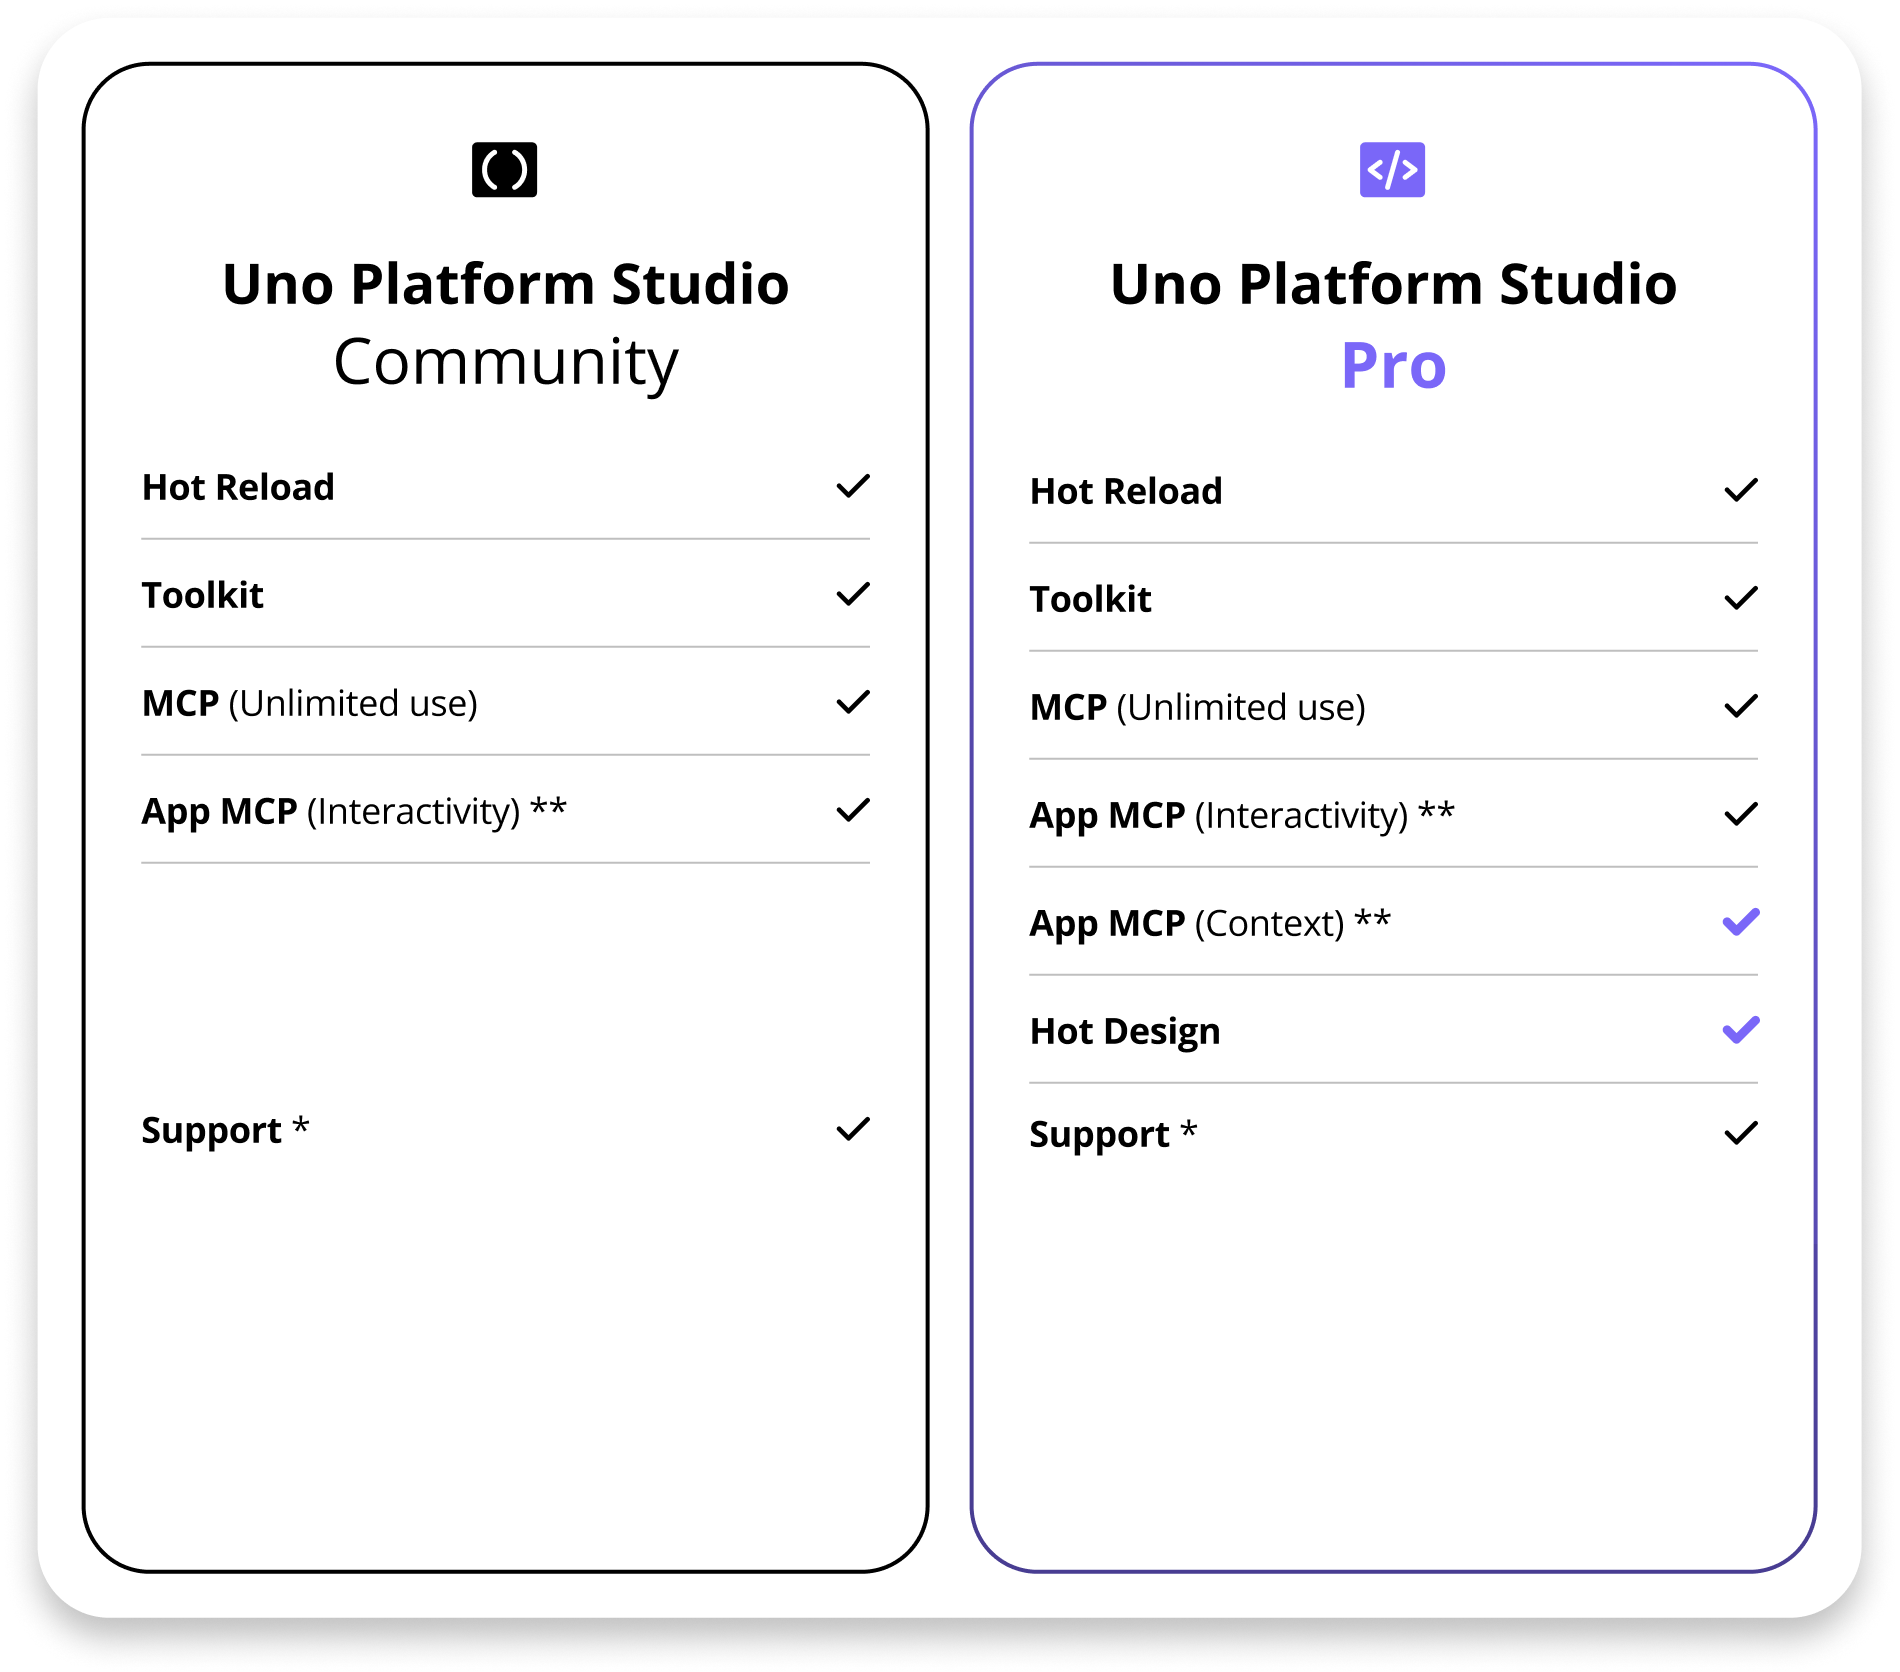
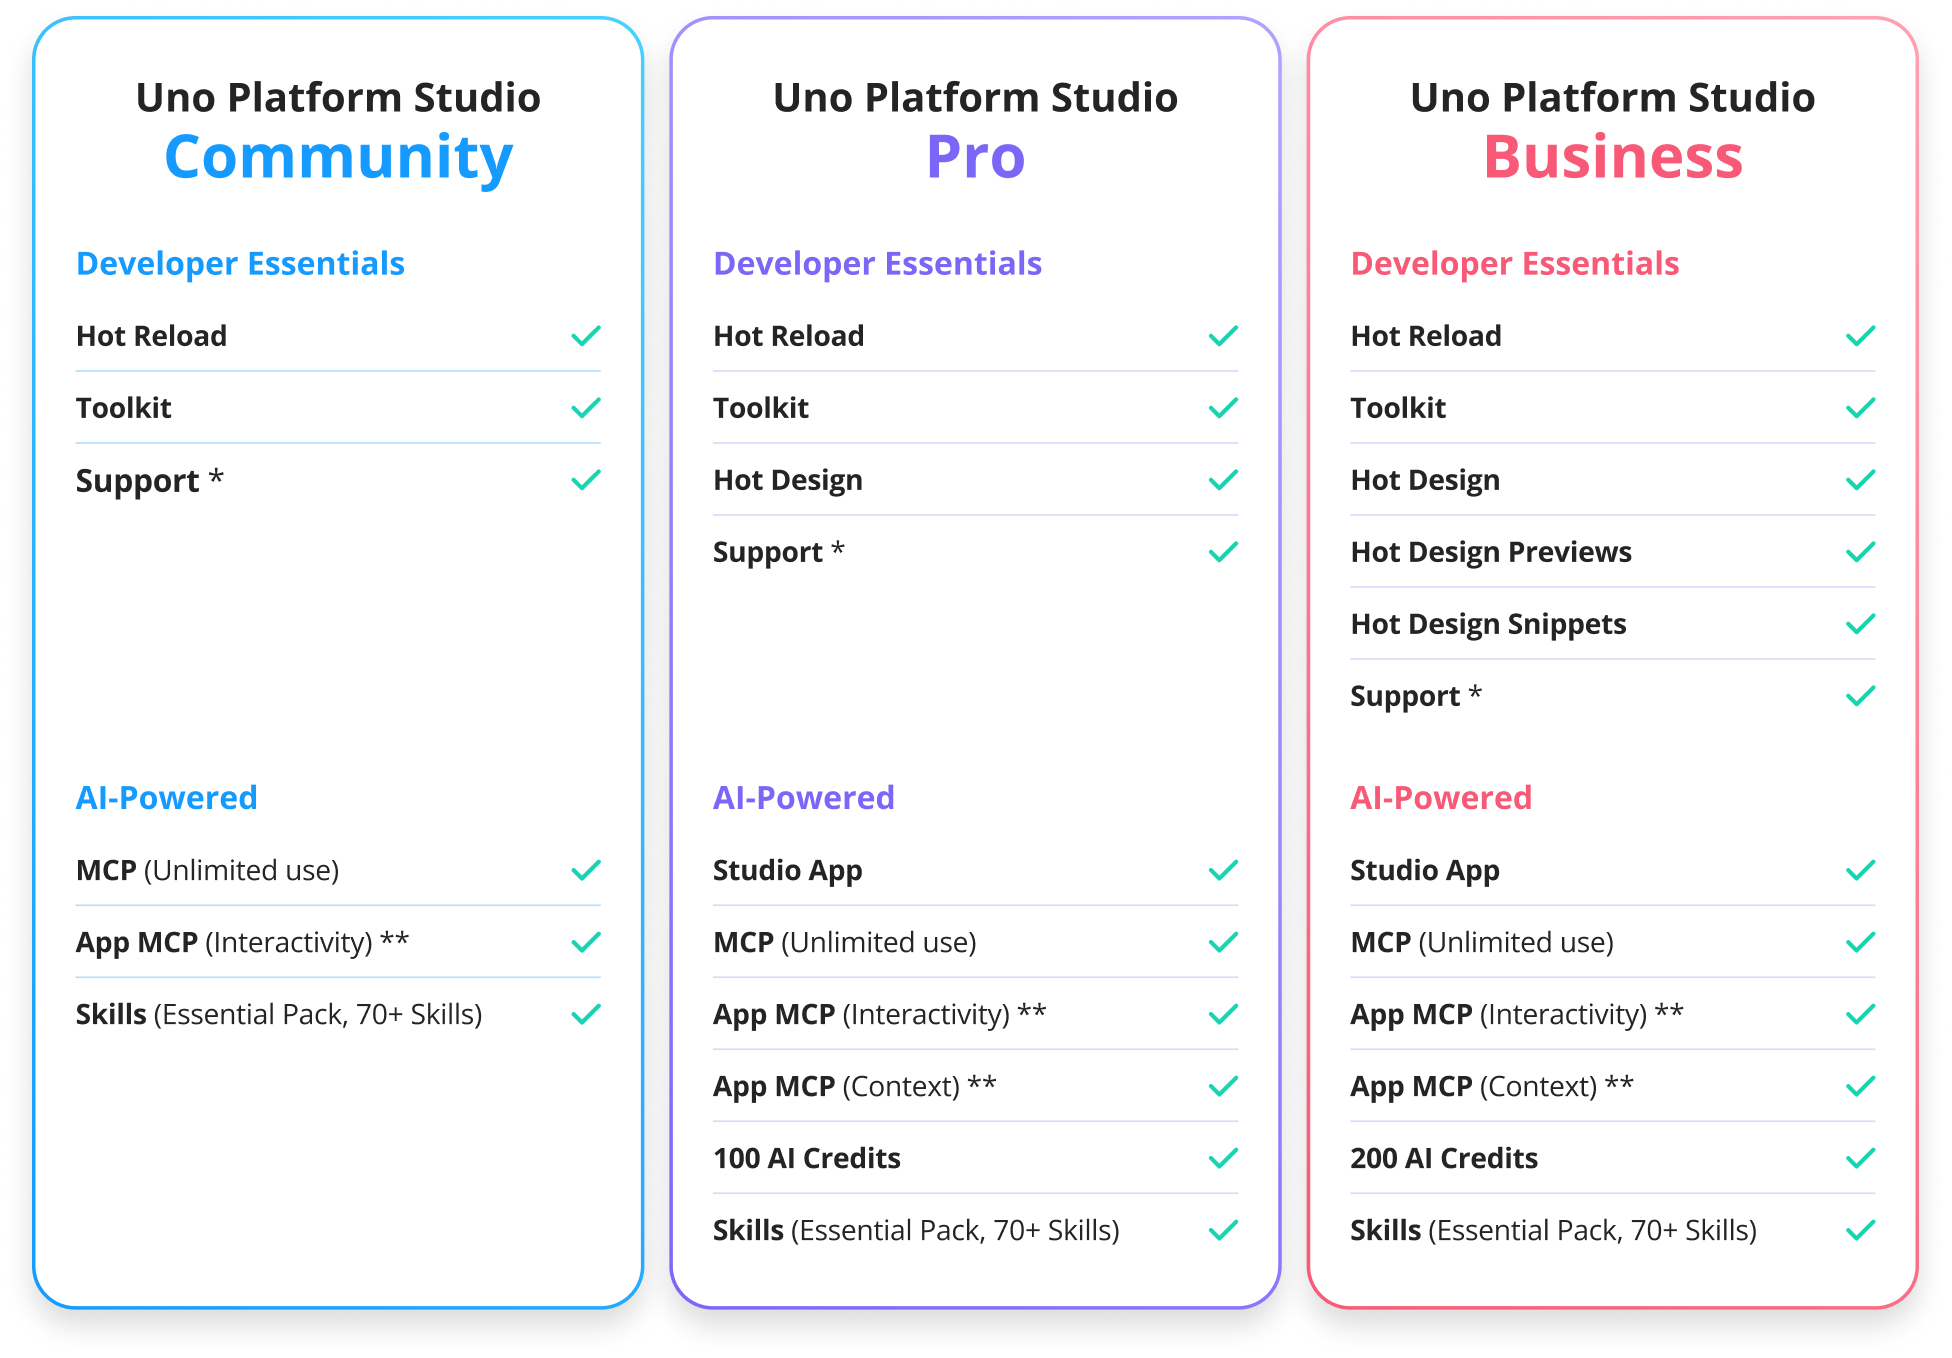
docs: business sku

diff --git a/doc/articles/get-started-licensing.md b/doc/articles/get-started-licensing.md
@@ -4,7 +4,7 @@ uid: Uno.GetStarted.Licensing
 
 # Sign in with Uno Platform
 
-Sign in with your Uno Platform account directly in your favorite IDE (Visual Studio, VS Code, or Rider), to unlock powerful tools like Hot Reload, helping you speed up development. With a single registration, you also get early access to new features and the opportunity to connect with the Uno Platform community to share feedback and network.
+Sign in with your Uno Platform account directly in your favorite IDE (Visual Studio, VS Code, or Rider). With a single registration, you also get early access to new features and the opportunity to connect with the Uno Platform community to share feedback and network.
 
 ## Create your account
 
@@ -90,13 +90,13 @@ If you’ve already set up **JetBrains Rider** by following the [Get Started on 
 
    ![Uno Platform Studio Window Main](Assets/uno-studio-main.png)
 
-### Uno Platform Studio Pro 15-Day Trial
+### Uno Platform Studio Business 15-Day Trial
 
-When you create a free **Community** account, **Uno Platform Studio** includes a 15-day trial of **Uno Platform Studio Pro**. The trial unlocks the full Pro toolset, including the **[Uno Platform Studio App](xref:Uno.PlatformStudio.GetStarted)** and **[Hot Design<sup>®</sup>](xref:Uno.HotDesign.Overview)**. If your **Uno Platform Studio Pro** trial has expired, you’ll have the option to extend it directly from the Uno Platform Studio window, or, if you’re ready to upgrade, simply click **Purchase Now**. This will take you to the Uno Platform website, where you can choose your subscription plan and the number of licenses you need.
+When you create a free **Community** account, **Uno Platform Studio** includes a 15-day trial of **Uno Platform Studio Business**. The trial unlocks the full Business toolset, including the **[Uno Platform Studio App](xref:Uno.PlatformStudio.GetStarted)** and **[Hot Design<sup>®</sup>](xref:Uno.HotDesign.Overview)**. If your **Uno Platform Studio Business** trial has expired, you’ll have the option to extend it directly from the Uno Platform Studio window, or, if you’re ready to upgrade, simply click **Purchase Now**. This will take you to the Uno Platform website, where you can choose your subscription plan and the number of licenses you need.
 
-## Getting a Uno Platform Studio Pro License
+## Getting a Uno Platform Studio License
 
-**Uno Platform Studio** revolutionizes how developers design, build, and iterate on their applications. A **Uno Platform Studio Pro** license unlocks the full suite of purpose-built tools that streamline your workflow:
+**Uno Platform Studio** revolutionizes how developers design, build, and iterate on their applications. A **Uno Platform Studio** license unlocks the full suites of purpose-built tools that streamline your workflow:
 
 - **[Uno Platform Studio App](xref:Uno.PlatformStudio.GetStarted)**: Go from a prompt to a working, cross-platform Uno Platform app in minutes. Start from a description (or one of the curated samples in the Gallery), watch the app build live thanks to Hot Reload, refine it through the conversation panel, then export to your preferred IDE or CLI to keep building. App generation is powered by the **[Uno Platform Studio Agent](xref:Uno.PlatformStudio.Agent)**. [Get started](xref:Uno.PlatformStudio.GetStarted)
 
@@ -106,14 +106,14 @@ When you create a free **Community** account, **Uno Platform Studio** includes a
 
 The free **Community** plan already includes core productivity tools, such as **[Hot Reload](xref:Uno.Platform.Studio.HotReload.Overview)**, the Uno Toolkit, and unlimited access to the **[Uno Platform MCPs](xref:Uno.Features.Uno.MCPs)**, so you can be productive before you upgrade.
 
-Check out [Compare Uno Platform Studio Community vs Pro plan](https://platform.uno/select-subscription/) to see exactly what is included in each plan and what you gain by upgrading.
+Check out [Compare Uno Platform Studio plans](https://platform.uno/select-subscription/) to see exactly what is included in each plan and what you gain by upgrading.
 
 > [!IMPORTANT]
-> Uno Platform itself remains open-source and free under Apache 2.0. The Pro subscription is specifically for Uno Platform Studio features.
+> Uno Platform itself remains open-source and free under Apache 2.0. The Pro and Business subscriptions are specifically for Uno Platform Studio features.
 
 ![Uno Platform Studio compare](Assets/uno-studio-plans-compare.png)
 
-### Purchase a Pro License
+### Purchase a Pro or Business License
 
 1. Visit [platform.uno/select-subscription](https://platform.uno/select-subscription/) to view subscription options and current pricing.
 1. Choose your preferred billing cycle (monthly or yearly).
@@ -124,7 +124,7 @@ Check out [Compare Uno Platform Studio Community vs Pro plan](https://platform.u
 
 ### Special Pricing
 
-- **Students, educators, and open-source maintainers**: Qualify for complimentary Pro licenses upon verification. Contact [info@platform.uno](mailto:info@platform.uno) to get started.
+- **Students, educators, and open-source maintainers**: Qualify for complimentary Uno Platform Studio licenses upon verification. Contact [info@platform.uno](mailto:info@platform.uno) to get started.
 - **Enterprise/Custom Quotes**: Enterprise customers can arrange purchase orders and invoicing. Contact [info@platform.uno](mailto:info@platform.uno) for customized licensing.
 
 ### Subscription Management
@@ -133,19 +133,19 @@ Check out [Compare Uno Platform Studio Community vs Pro plan](https://platform.u
 - **Billing**: Invoices are sent to your registered email address. You can switch between monthly and yearly billing at any time, with no immediate charge.
 - **License management**: Add or remove seats at any time, and transfer seats between team members from the License Manager in your account dashboard. Licenses added mid-cycle are prorated, and removed licenses take effect immediately with charges adjusted at your next renewal.
 
-## Assigning a Uno Platform Studio Pro License
+## Assigning a Uno Platform Studio License
 
-Once you have purchased a Uno Platform Studio Pro subscription, you may need to assign or activate your license:
+Once you have purchased a Uno Platform Studio subscription, you may need to assign or activate your license:
 
 ### Activating Your License After Purchase
 
-1. After purchasing your Pro subscription, you should receive a confirmation email with your license details.
+1. After purchasing your subscription, you should receive a confirmation email with your license details.
 
 1. Sign in to your IDE following the steps in the "Sign in to your IDE of choice" section above.
 
 1. In the Uno Platform Studio window, click **Refresh** to update your license status.
 
-1. Your Pro features should now be available.
+1. Your plan features should now be available.
 
 ### Checking License Status
 
@@ -188,9 +188,9 @@ If you encounter issues during the subscription or licensing process:
    - Use the **Refresh** button in Uno Platform Studio
    - Sign out and sign in again to your IDE
 
-1. **Uno Platform Studio Pro Trial Expired**:
+1. **Uno Platform Studio Trial Expired**:
    - The 15-day trial is automatically included with Community accounts
-   - After expiration, upgrade to Pro to continue using Uno Platform Studio Pro features
+   - After expiration, upgrade to Pro or Business plans to continue using Uno Platform Studio features
    - Visit [platform.uno/select-subscription](https://platform.uno/select-subscription/) to upgrade
 
 1. **Support**:
